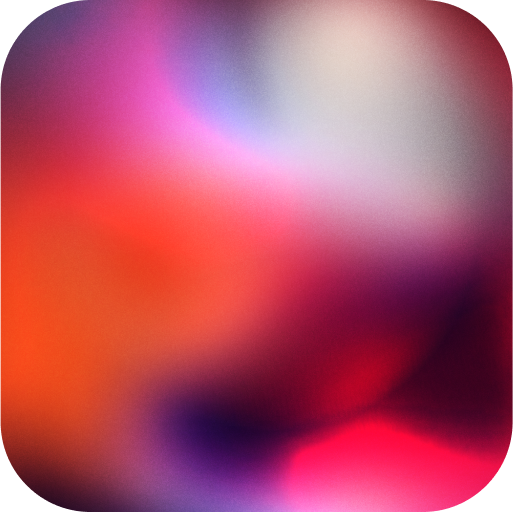
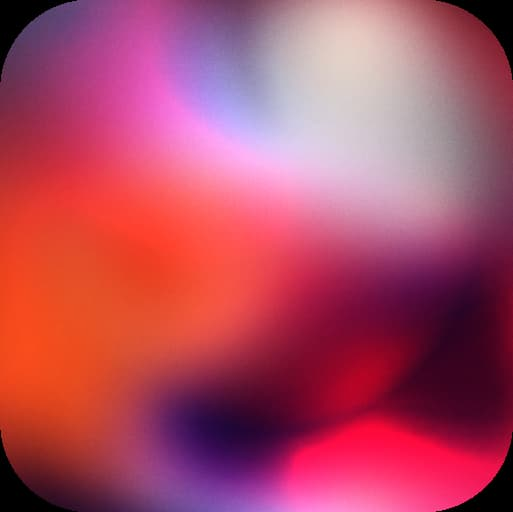
fix: compress img and fix performance lighthouse error

Changed region(s): [[0.8421, 0.0, 1.0, 1.0], [0.0, 0.8438, 0.1559, 1.0], [0.0, 0.0, 0.1559, 0.1562]]

diff --git a/components/Header.vue b/components/Header.vue
@@ -1,10 +1,12 @@
 <template>
   <section>
     <div class="">
-      <nuxt-img src="header.png" class="pointer-events-none w-full h-96" alt="" />
+      <nuxt-img src="header.jpg" class="pointer-events-none w-full h-96" alt="" />
       <NuxtLink to="/">
         <nuxt-img
-          src="avatar.png"
+          src="avatar.jpg"
+          width="128"
+          height="128"
           class="-mt-24 pointer-events-none md:-mt-44 w-32 h-32 rounded-full mx-auto"
           alt="Avatar of Malik"
         />
